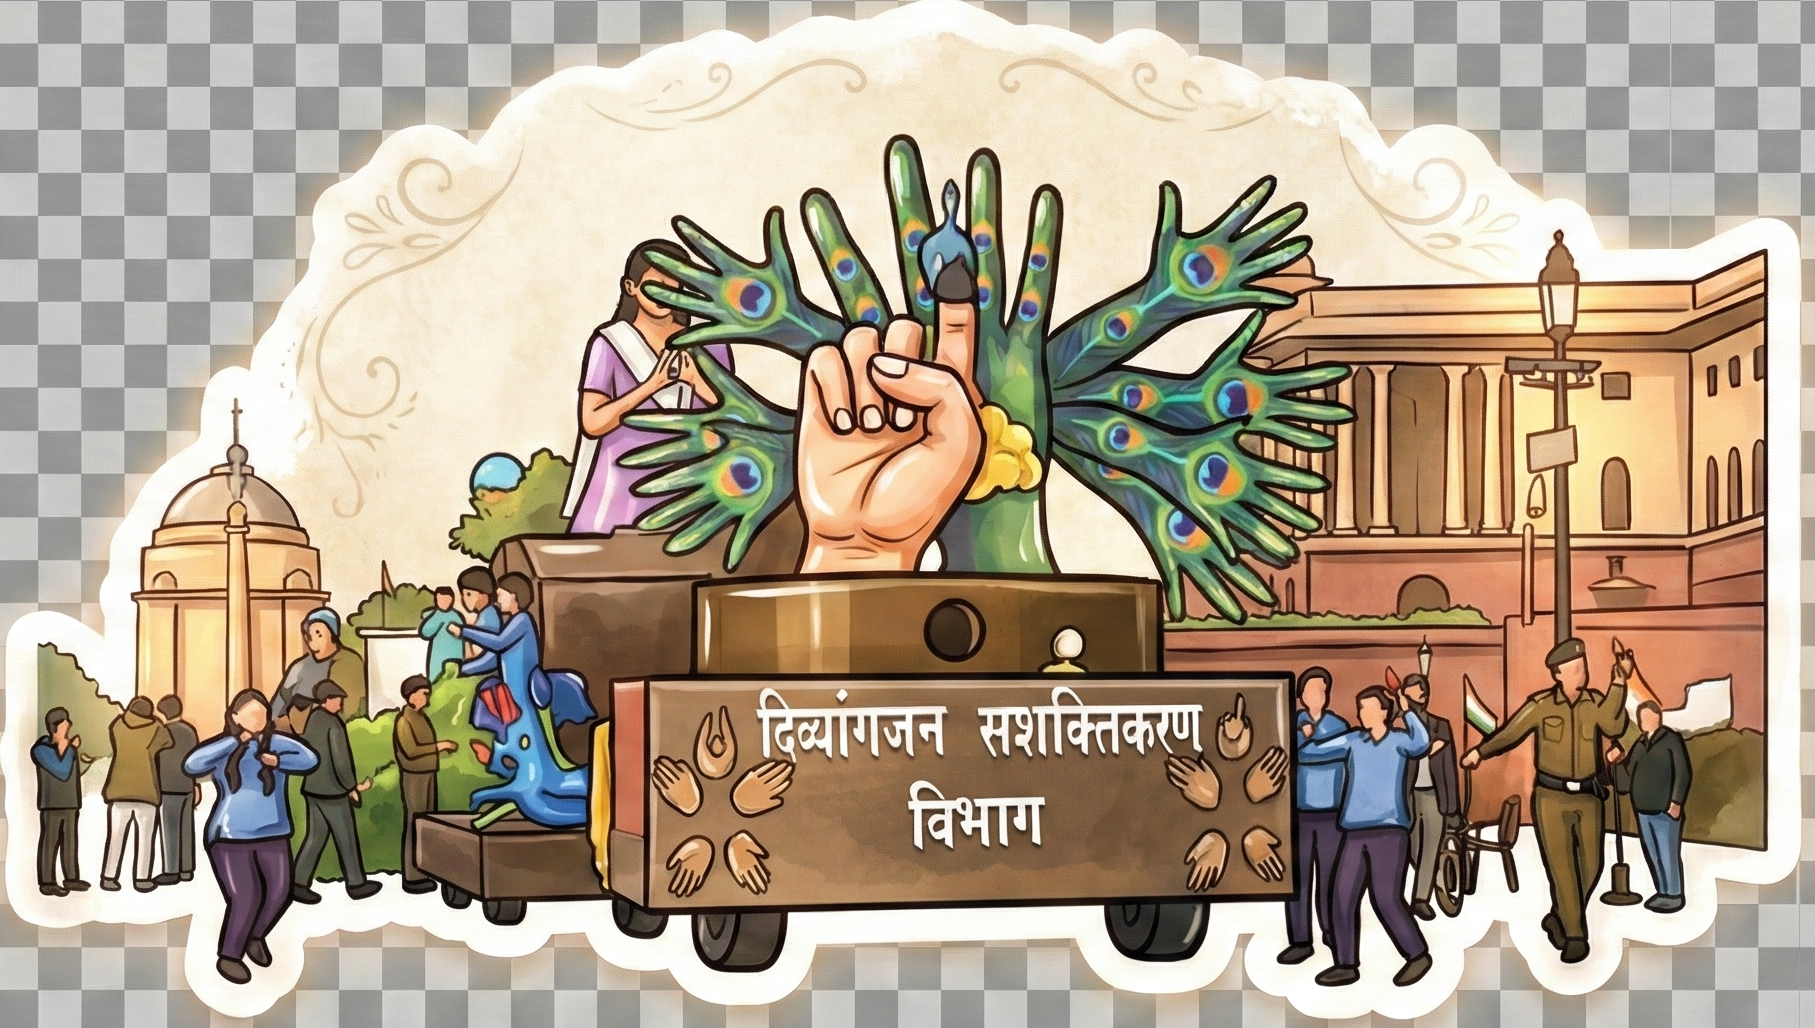
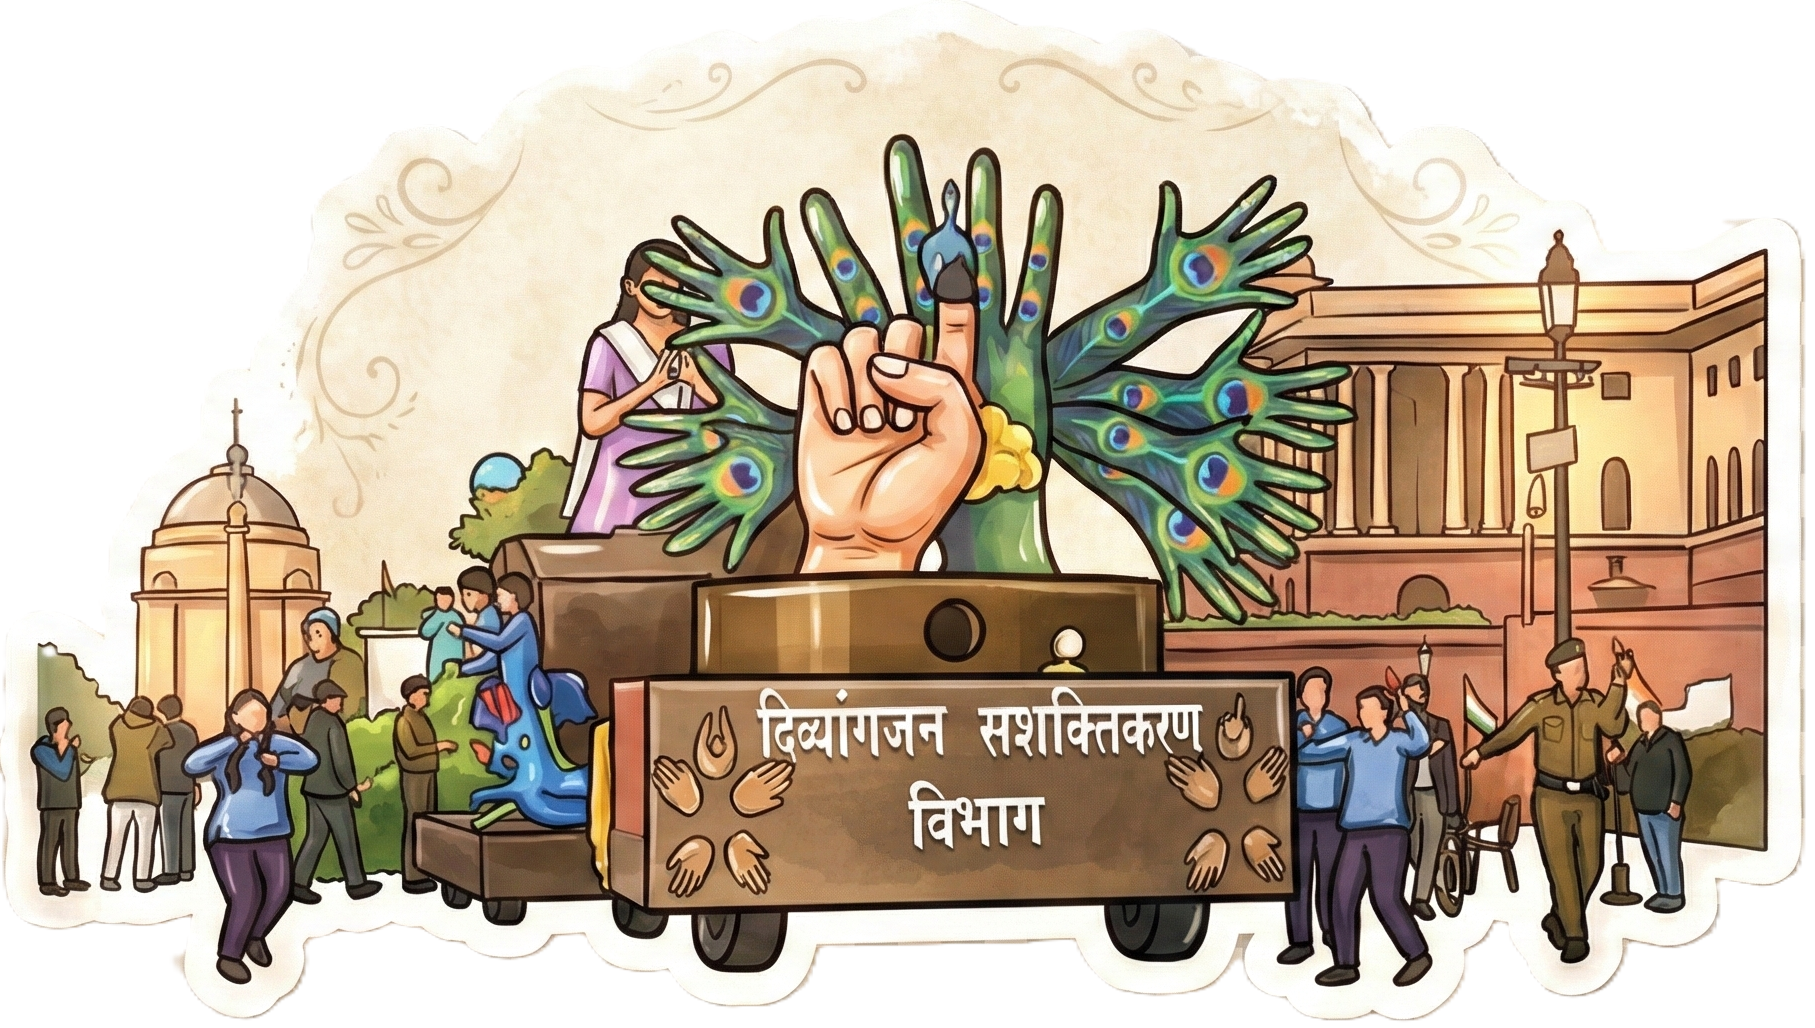
Initial commit

Changed region(s): [[0.0, 0.0, 1.0, 1.0], [0.0, 0.0, 0.4937, 0.6537], [0.0, 0.7782, 0.0309, 0.8093]]

diff --git a/backend/templates/frontend/index.html b/backend/templates/frontend/index.html
@@ -242,7 +242,7 @@
                             <div class="col-md-4">
                                 <div class="sign-image-card">
                                     <div class="sign-image-wrapper">
-                                        <img src="assets/bg3.jpg.jpeg" alt="ISL Dictionary" class="sign-img">
+                                        <img src="assets/isldict.webp" alt="ISL Dictionary" class="sign-img">
                                     </div>
                                     <div class="sign-image-overlay">
                                         <h5>ISL Dictionary</h5>
@@ -254,7 +254,7 @@
                             <div class="col-md-4">
                                 <div class="sign-image-card">
                                     <div class="sign-image-wrapper">
-                                        <img src="assets/bg1.jpg.jpeg" alt="AI Recognition" class="sign-img">
+                                        <img src="assets/AIrec.jpg" alt="AI Recognition" class="sign-img">
                                     </div>
                                     <div class="sign-image-overlay">
                                         <h5>AI Recognition</h5>
@@ -266,7 +266,7 @@
                             <div class="col-md-4">
                                 <div class="sign-image-card">
                                     <div class="sign-image-wrapper">
-                                        <img src="assets/bg2.jpg.jpeg" alt="NGO Partners" class="sign-img">
+                                        <img src="assets/ngo.jpg" alt="NGO Partners" class="sign-img">
                                     </div>
                                     <div class="sign-image-overlay">
                                         <h5>NGO Partners</h5>

diff --git a/backend/config.py b/backend/config.py
@@ -13,26 +13,14 @@ class Config:
     SECRET_KEY = os.getenv("SECRET_KEY", "dev-key")
     DEBUG = os.getenv("DEBUG", "False").lower() == "true"
     
-    # Database - SQLAlchemy
+    # Database - SQLAlchemy (Local SQLite)
     BASE_DIR = os.path.dirname(os.path.abspath(__file__))
     DEFAULT_DB_PATH = os.path.join(BASE_DIR, "vaani.db")
     
-    # Priority: Env variable DATABASE_URL > local SQLite
-    SQLALCHEMY_DATABASE_URI = os.getenv("DATABASE_URL")
-    if not SQLALCHEMY_DATABASE_URI:
-        SQLALCHEMY_DATABASE_URI = f"sqlite:///{DEFAULT_DB_PATH}"
-    
-    if SQLALCHEMY_DATABASE_URI.startswith("postgres://"):
-        SQLALCHEMY_DATABASE_URI = SQLALCHEMY_DATABASE_URI.replace("postgres://", "postgresql://", 1)
-    
+    # Force use local SQLite for now
+    SQLALCHEMY_DATABASE_URI = f"sqlite:///{DEFAULT_DB_PATH}"
     SQLALCHEMY_TRACK_MODIFICATIONS = False
-    
-    # Engine options for PostgreSQL (like SSL requirement)
-    SQLALCHEMY_ENGINE_OPTIONS = {
-        "connect_args": {
-            "sslmode": "require"
-        }
-    } if SQLALCHEMY_DATABASE_URI and SQLALCHEMY_DATABASE_URI.startswith("postgresql") else {}
+    SQLALCHEMY_ENGINE_OPTIONS = {}
     
     # Email settings
     SMTP_SERVER = os.getenv("SMTP_SERVER", "smtp.gmail.com")

diff --git a/backend/app.py b/backend/app.py
@@ -106,10 +106,9 @@ def get_dictionary():
             # 1. Try exact match first
             exact_match = SignDictionary.query.filter(SignDictionary.word.ilike(search)).first()
             
-            # 2. Get fuzzy matches on the word
             other_matches = SignDictionary.query.filter(
                 SignDictionary.word.ilike(f'%{search}%'),
-                SignDictionary.word.is_not(search)
+                SignDictionary.word != search
             ).all()
 
             # 3. If it's a single letter, include other signs starting with that letter
@@ -117,7 +116,7 @@ def get_dictionary():
             if len(search) == 1:
                 letter_matches = SignDictionary.query.filter(
                     SignDictionary.starting_letter.ilike(search),
-                    SignDictionary.word.is_not(search),
+                    SignDictionary.word != search,
                     ~SignDictionary.word.ilike(f'%{search}%') # Don't duplicate
                 ).all()
 
@@ -143,6 +142,7 @@ def get_events():
     try:
         import heapq
         from datetime import date
+        today = date.today()
         
         # Get all events
         all_events = Event.query.all()

diff --git a/backend/run_server.py b/backend/run_server.py
@@ -8,9 +8,7 @@ import sys
 # Set working directory to the script's location
 os.chdir(os.path.dirname(os.path.abspath(__file__)))
 
-# Set environment variables (default to SQLite if not provided)
-if 'DATABASE_URL' not in os.environ:
-    os.environ['DATABASE_URL'] = 'sqlite:///vaani.db'
+# Server will use the database path defined in config.py
 
 print("=" * 50)
 print("Starting VAANI Server...")
